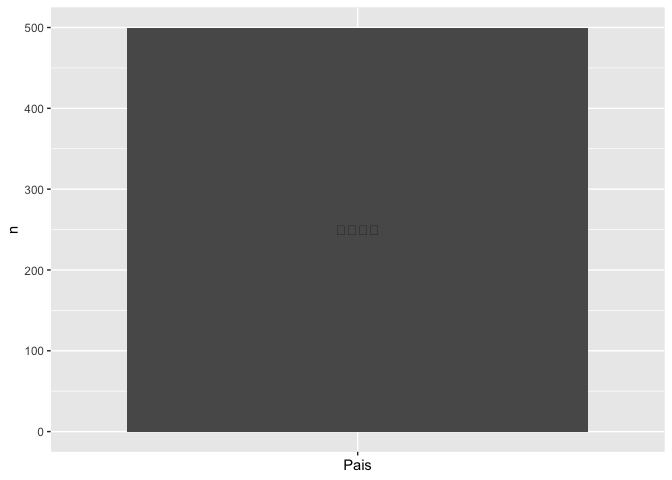
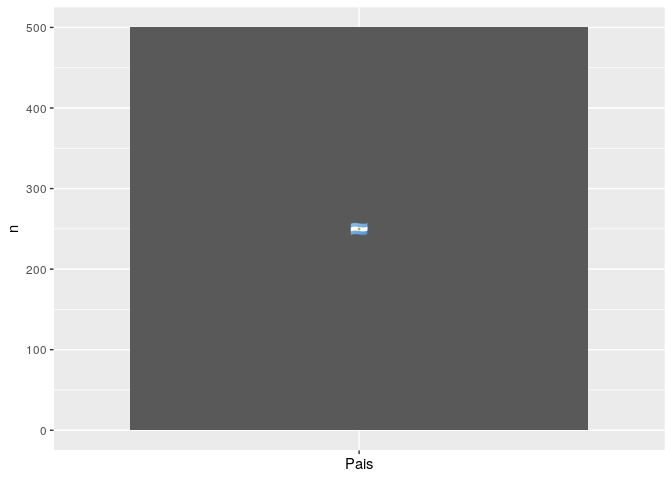
Ediciones menores del readme (tildes, alguna puntuación) y regla de la label "hacktoberfest-accepted"

diff --git a/README.md b/README.md
@@ -13,10 +13,10 @@ Mini tutorial que nos enseña a contribuir al código libre en R. Este
 tutorial se basa en el trabajo del repositorio [First
 Contributions](https://github.com/firstcontributions/first-contributions/blob/master/translations/README.es.md).
 
-## Contribuyentes actuales\!
+## ¡Contribuyentes actuales\!
 
-A este repositorio han podido contribuido 1 personas. Tomando una
-muestra de 500, veamos la distribución del país de los contribuyentes:
+A este repositorio han contribuido 1 personas. Tomando una muestra de
+500, veamos la distribución del país de los contribuyentes:
 
 ``` r
 library("firstContributionsInR")
@@ -43,7 +43,7 @@ muestra_contribuyentes(n = 500) %>%
 
 ## Instalación del paquete R
 
-Actualmente, `firstContributionsInR` se encuentra unicamente como un
+Actualmente, `firstContributionsInR` se encuentra únicamente como un
 paquete de GitHub.
 
 Para instalarlo, correr el siguiente código en una consola R:
@@ -55,11 +55,11 @@ if (!require("remotes")) {
 remotes::install_github("jcrodriguez1989/firstContributionsInR")
 ```
 
-## Tu primer contribución\!
+## ¡Tu primera contribución\!
 
 Si no lo has hecho aún, [inicia sesión en
 GitHub](https://github.com/login). Si no tienes una cuenta,
-[créala](https://github.com/join), es gratis\!
+[créala](https://github.com/join), ¡es gratis\!
 
 Si no tienes git en tu equipo, puedes encontrar instrucciones para
 instalarlo en [este
@@ -81,7 +81,7 @@ Ahora clona este repositorio en tu equipo. Haz click en el botón
 portapapeles*.
 
 Abre RStudio, haz click en *File* \~\> *New Project…* \~\> *Version
-Control* \~\> *Git*, y pega la “url que acabas de copiar” en el campo de
+Control* \~\> *Git*, pega la “url que acabas de copiar” en el campo de
 *Repository URL:* y dale click a *Create Project*.
 
 <img src="README_files/capturas/rstudio-clone.png" width="100%" />
@@ -106,7 +106,7 @@ click en *Commit*.
 <img style="float: right;" width="300" src="README_files/capturas/rstudio-add.png" alt="Agregar archivos git" />
 
 Agrega un mensaje al *Commit* (por ejemplo, “Agregando a `<tu-nombre>`
-como contribuyente”), y vuelve a clickear en *Commit*. Se abrira una
+como contribuyente”), y vuelve a clickear en *Commit*. Se abrirá una
 ventana que muestra los cambios realizados, ciérrala dando click en
 *Close*.
 
@@ -140,30 +140,32 @@ cambios hayan sido fusionados.
 ¡Enhorabuena\! ¡Has completado el flujo de trabajo *_fork \~\> clone
 \~\> edit \~\> PR_* que encontrarás habitualmente como contribuidor\!
 
-Si quieres ser perfeccionar tus habilidades con git, te recomiendo el
+Si quieres perfeccionar tus habilidades con git, te recomiendo el
 material [Happy Git and GitHub for the
 useR](https://happygitwithr.com/).
 
-### ¿En que puedo contribuir?
+### ¿En qué puedo contribuir?
 
-Fácil\! Dirígete al repositorio de GitHub de tu paquete R favorito, por
+¡Fácil\! Dirígete al repositorio de GitHub de tu paquete R favorito, por
 ejemplo [el de `ggplot2`](https://github.com/tidyverse/ggplot2). Haz
 click en el botón
-[*Issues*](https://github.com/tidyverse/ggplot2/issues). Asígnate uno de
-los cientos de issues que debe haber sin resolver\!
+[*Issues*](https://github.com/tidyverse/ggplot2/issues). ¡Asígnate uno
+de los cientos de issues que debe haber sin resolver\!
 
 ### Hacktoberfest
 
-Oye\! Estamos en Octubre, época en la que
+¡Oye\! Estamos en Octubre, época en la que
 [Hacktoberfest](https://hacktoberfest.digitalocean.com/) nos premia por
 contribuir al código libre\! Inscríbete al Hacktoberfest, y durante todo
 Octubre, si realizas 4 Pull Requests a repositorios adheridos, recibirás
 un premio por ello\!
 
-¿Que repositorios participan en Hacktoberfest? En el [siguiente
+¿Qué repositorios participan en Hacktoberfest? En el [siguiente
 enlace](https://github.com/search?l=R&q=label%3Ahacktoberfest+state%3Aopen+no%3Aassignee+is%3Aissue&type=Issues)
 encontrarás repositorios R para los cuales sus creadores han marcado
-issues facilmente solucionables durante el Hacktoberfest. Además,
+issues fácilmente solucionables durante el Hacktoberfest. Además,
 también valen PR, no asociadas a issues, para cualquiera de los
 repositorios R de [esta
-lista](https://github.com/topics/hacktoberfest?l=R).
+lista](https://github.com/topics/hacktoberfest?l=R). También valen PR a
+otros repositorios públicos siempre que el PR sea etiquetado como
+*hacktoberfest-accepted* por quien mantiene el repositorio.
